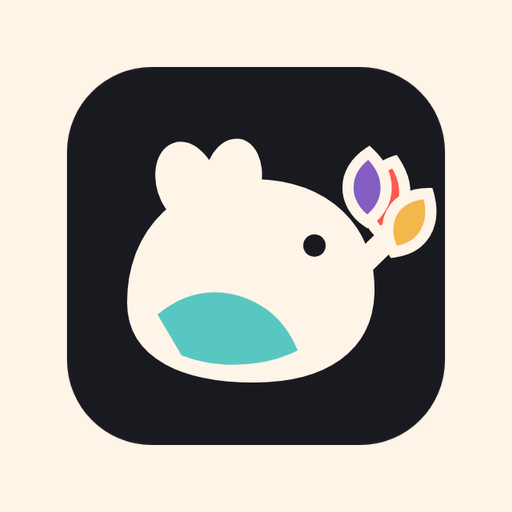
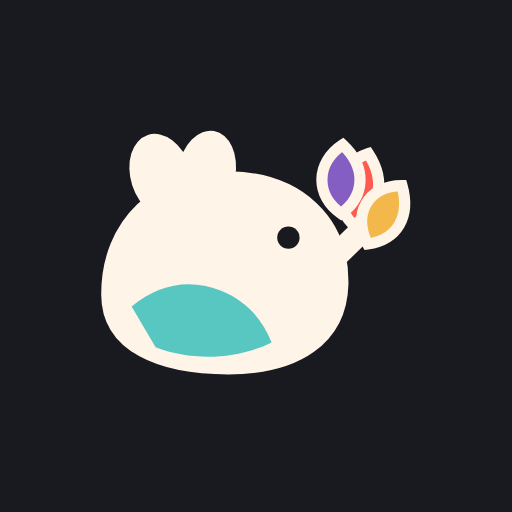
Let IconFlow's card fill launcher shapes: a linked maskable source
The PWA/Android maskable icon showed the graphite card inside a paper ring. brand/maskable.svg is the master's own paths on a full-bleed graphite field, re-centred in the 40% safe circle; only icon-512-maskable.png changes. maskable-drift compared a card master's card with the full-bleed mark and refused it, so the identity check now also reads the mark drawn on a plate (a different mark still fails). Re-reviewed from headless evidence; the receipt stays plan-unbound on purpose, because the brand and the packaged demo ship on every machine. The demo family follows the brand byte for byte.

diff --git a/iconflow/qa.py b/iconflow/qa.py
@@ -438,11 +438,12 @@ _IDENTITY_GRID = 64
 
 
 
-def _normalised_figure(png: bytes) -> tuple[Image.Image | None, float]:
-    """The figure cropped to its own box and fitted to a square grid, plus aspect."""
-    image = Image.open(io.BytesIO(png)).convert("RGBA")
-    figure = ladder.figure_mask(image, ladder.figure_policy(image))
-    figure = ImageChops.multiply(figure, image.getchannel("A").point(lambda a: 255 if a >= 24 else 0))
+#: An opaque region filling at least this share of its own box is a plate (a
+#: card or tile) rather than a silhouette: the mark is what is drawn on it.
+_PLATE_FILL = 0.85
+
+
+def _fitted(figure: Image.Image) -> tuple[Image.Image | None, float]:
     box = figure.getbbox()
     if not box:
         return None, 0.0
@@ -453,6 +454,87 @@ def _normalised_figure(png: bytes) -> tuple[Image.Image | None, float]:
     square.paste(figure.crop(box), ((side - width) // 2, (side - height) // 2))
     fitted = square.resize((_IDENTITY_GRID, _IDENTITY_GRID), Image.Resampling.BOX)
     return fitted.point(lambda v: 255 if v >= 128 else 0), width / height
+
+
+def _figure_of(image: Image.Image) -> Image.Image:
+    opaque = image.getchannel("A").point(lambda a: 255 if a >= 24 else 0)
+    return ImageChops.multiply(ladder.figure_mask(image, ladder.figure_policy(image)), opaque)
+
+
+def _normalised_figure(png: bytes) -> tuple[Image.Image | None, float]:
+    """The figure cropped to its own box and fitted to a square grid, plus aspect."""
+    return _figure_candidates(png)[0]
+
+
+def _figure_candidates(png: bytes) -> list[tuple[Image.Image | None, float]]:
+    """How the mark can be read: its figure and, on a plate, the mark drawn on it.
+
+    A card master's figure is the card; the same mark composed full-bleed for a
+    maskable crop has no card left, only the mark. Reading the mark *on* the
+    plate as well lets the two be compared like for like, and a different mark
+    on the same card still fails.
+    """
+    image = Image.open(io.BytesIO(png)).convert("RGBA")
+    candidates = [_fitted(_figure_of(image))]
+    plate = _on_plate(image)
+    if plate is not None:
+        candidates.append(_fitted(plate))
+    return candidates
+
+
+def _on_plate(image: Image.Image) -> Image.Image | None:
+    """The mark drawn on a plate, as a mask, or None when there is no plate.
+
+    "Outside" is what is connected to the canvas corners in their colour; the
+    plate is everything else. A mark whose ink matches the surround (paper
+    mark, paper margin) is still inside the plate, because it is not
+    connected to the corners. On the plate the mark is whatever is not the
+    plate's own colour — by area it may well be the majority (a large body on
+    a small card), so the minority rule the figure policy uses does not apply.
+    """
+    from PIL import ImageDraw
+
+    width, height = image.size
+    sentinel = (1, 254, 3, 7)
+    marked = image.copy()
+    for corner in ((0, 0), (width - 1, 0), (0, height - 1), (width - 1, height - 1)):
+        if marked.getpixel(corner) != sentinel:
+            ImageDraw.floodfill(marked, corner, sentinel, thresh=24)
+    outside = Image.new("L", image.size, 0)
+    outside.putdata([255 if pixel == sentinel else 0 for pixel in _pixels(marked)])
+    plate = ImageChops.invert(outside)
+    box = plate.getbbox()
+    if not box or box == (0, 0, width, height):
+        return None
+    area = (box[2] - box[0]) * (box[3] - box[1])
+    if sum(1 for value in _pixels(plate.crop(box)) if value) / area < _PLATE_FILL:
+        return None
+    # Shrunk a little: the plate's antialiased edge is neither plate nor mark.
+    from PIL import ImageFilter
+
+    inside = plate.filter(ImageFilter.MinFilter(5)).crop(box)
+    cut = image.crop(box)
+    pixels = [pixel for pixel, keep in zip(_pixels(cut), _pixels(inside)) if keep]
+    # The plate's colour is the commonest colour along its own rim, which the
+    # mark (inside the safe area) does not reach.
+    rim = [cut.getpixel((x, y)) for x, y in _rim(cut.size) if inside.getpixel((x, y))]
+    ground = max(set(rim or pixels), key=(rim or pixels).count)
+    mark = Image.new("L", cut.size, 0)
+    mark.putdata([
+        255 if keep and sum(abs(a - b) for a, b in zip(pixel[:3], ground[:3])) > 60 else 0
+        for pixel, keep in zip(_pixels(cut), _pixels(inside))
+    ])
+    return mark
+
+
+def _rim(size: tuple[int, int]) -> list[tuple[int, int]]:
+    """Points a little inside a box's edge, where a plate shows its own colour."""
+    width, height = size
+    inset = max(1, min(width, height) // 12)
+    xs = range(inset, width - inset, max(1, width // 32))
+    ys = range(inset, height - inset, max(1, height // 32))
+    return ([(x, inset) for x in xs] + [(x, height - 1 - inset) for x in xs]
+            + [(inset, y) for y in ys] + [(width - 1 - inset, y) for y in ys])
 
 
 def _mask_iou(a: Image.Image, b: Image.Image) -> float:
@@ -471,8 +553,17 @@ def maskable_identity_findings(
     are cropped to their own bounds, so scale and padding are free, and then
     compared by overlap and aspect.
     """
-    master, master_aspect = _normalised_figure(master_png)
-    linked, linked_aspect = _normalised_figure(maskable_png)
+    best = None
+    for master, master_aspect in _figure_candidates(master_png):
+        for linked, linked_aspect in _figure_candidates(maskable_png):
+            if master is None or linked is None:
+                continue
+            iou = _mask_iou(master, linked)
+            drift = (abs(math.log(linked_aspect / master_aspect))
+                     if master_aspect and linked_aspect else 0.0)
+            if best is None or (iou, -drift) > (best[0], -best[1]):
+                best = (iou, drift, master_aspect, linked_aspect)
+    master = linked = None if best is None else True
     if master is None or linked is None:
         return [Finding(
             "maskable-drift",
@@ -480,8 +571,7 @@ def maskable_identity_findings(
             f"{'the master' if master is None else source_label} has no visible figure "
             f"at {_IDENTITY_SIZE}px. Draw the master's mark in the maskable source.",
         )]
-    iou = _mask_iou(master, linked)
-    aspect_drift = abs(math.log(linked_aspect / master_aspect)) if master_aspect and linked_aspect else 0.0
+    iou, aspect_drift, master_aspect, linked_aspect = best
     if iou < MASKABLE_IDENTITY_IOU or aspect_drift > 0.15:
         return [Finding(
             "maskable-drift",

diff --git a/tests/test_maskable_identity.py b/tests/test_maskable_identity.py
@@ -1,0 +1,79 @@
+# SPDX-License-Identifier: Apache-2.0
+# SPDX-FileCopyrightText: 2026 snowyukitty · https://ai-iconflow.com
+"""A linked maskable source must be the master's mark — read on its plate too.
+
+A card master's figure is its card. The same mark composed full-bleed for a
+launcher's crop has no card left, so 0.7 compared a card with a mark and
+refused a correct maskable source. The check now also reads the mark drawn on
+the plate; a different mark still fails.
+"""
+import io
+import unittest
+
+from PIL import Image, ImageDraw
+
+from iconflow import qa
+
+PAPER, GRAPHITE = (255, 244, 232, 255), (25, 26, 32, 255)
+SIZE = qa._IDENTITY_SIZE
+
+
+def _png(image):
+    out = io.BytesIO()
+    image.save(out, "PNG")
+    return out.getvalue()
+
+
+def _mark(draw, box, shape):
+    left, top, right, bottom = box
+    if shape == "blob":
+        # A wide body with two ears: not a box, not symmetric.
+        width, height = right - left, bottom - top
+        draw.ellipse([left, top + height * 0.3, right, bottom], fill=PAPER)
+        draw.ellipse([left + width * 0.15, top, left + width * 0.35, top + height * 0.5], fill=PAPER)
+        draw.ellipse([left + width * 0.4, top, left + width * 0.6, top + height * 0.5], fill=PAPER)
+    else:
+        draw.rectangle([left, top + (bottom - top) * 0.4, right, top + (bottom - top) * 0.6], fill=PAPER)
+
+
+def card_master(shape="blob"):
+    """A graphite card with a large paper mark, flattened on a paper surround."""
+    image = Image.new("RGBA", (SIZE, SIZE), PAPER)
+    draw = ImageDraw.Draw(image)
+    draw.rounded_rectangle([10, 10, SIZE - 11, SIZE - 11], radius=52, fill=GRAPHITE)
+    _mark(draw, (40, 50, SIZE - 30, SIZE - 50), shape)
+    return _png(image)
+
+
+def full_bleed(shape="blob", scale=0.8):
+    image = Image.new("RGBA", (SIZE, SIZE), GRAPHITE)
+    draw = ImageDraw.Draw(image)
+    inset = (1 - scale) / 2 * SIZE
+    _mark(draw, (40 * scale + inset, 50 * scale + inset,
+                 (SIZE - 30) * scale + inset, (SIZE - 50) * scale + inset), shape)
+    return _png(image)
+
+
+class PlateIdentityTests(unittest.TestCase):
+    def test_the_same_mark_full_bleed_is_the_same_mark(self):
+        self.assertEqual(qa.maskable_identity_findings(
+            card_master(), full_bleed(), source_label="maskable.svg"), [])
+
+    def test_another_mark_full_bleed_is_still_refused(self):
+        found = qa.maskable_identity_findings(
+            card_master(), full_bleed("bar"), source_label="maskable.svg")
+        self.assertEqual([f.code for f in found], ["maskable-drift"])
+
+    def test_another_mark_on_the_same_card_is_still_refused(self):
+        found = qa.maskable_identity_findings(
+            card_master(), card_master("bar"), source_label="maskable.svg")
+        self.assertEqual([f.code for f in found], ["maskable-drift"])
+
+    def test_a_silhouette_without_a_plate_reads_one_way(self):
+        image = Image.new("RGBA", (SIZE, SIZE), (0, 0, 0, 0))
+        _mark(ImageDraw.Draw(image), (40, 50, SIZE - 30, SIZE - 50), "blob")
+        self.assertEqual(len(qa._figure_candidates(_png(image))), 1)
+
+
+if __name__ == "__main__":
+    unittest.main()

diff --git a/scripts/verify_distribution.py b/scripts/verify_distribution.py
@@ -158,6 +158,7 @@ def verify(path: Path) -> None:
             "brand/iconflow.toml",
             "brand/master-review.json",
             "brand/master.svg",
+            "brand/maskable.svg",
             "brand/tray.svg",
             *(f"demo/{name}" for name in DEMO_FILES),
             "docs/STYLE_CATALOG.md",
